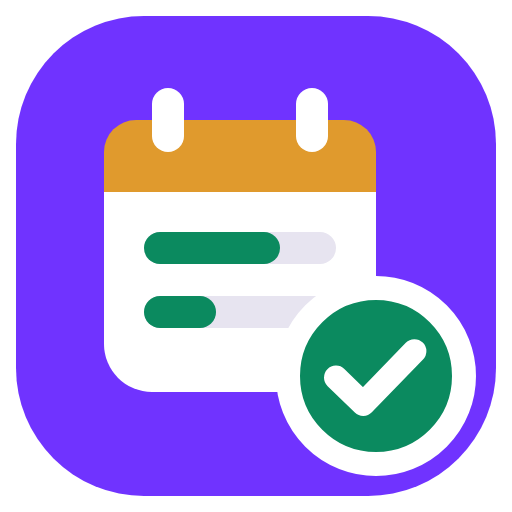
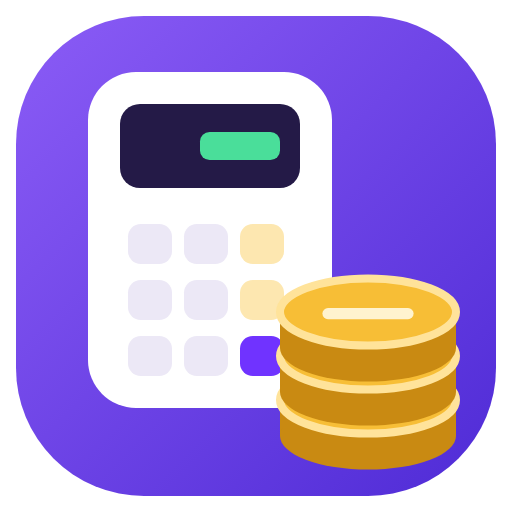
أيقونة جديدة: حاسبة آلية مع عملات نقدية
Claude-Session: https://claude.ai/code/session_01N8FUq5ZTCchDSKqghyh92N

diff --git a/src/components/AppIcon.tsx b/src/components/AppIcon.tsx
@@ -1,19 +1,8 @@
-/** Original brand mark: a calendar card with progress bars and a teal check badge. Mirrors public/favicon.svg */
+/** Brand mark: a calculator with a stack of gold coins. Mirrors public/favicon.svg */
 export function AppMark({ size = 40 }: { size?: number }) {
   return (
     <svg width={size} height={size} viewBox="0 0 64 64" aria-hidden="true">
-      <rect x="2" y="2" width="60" height="60" rx="16" fill="#7033FF" />
-      <rect x="13" y="15" width="34" height="34" rx="6" fill="#fff" />
-      <rect x="13" y="15" width="34" height="9" rx="4" fill="#E09A2D" />
-      <rect x="13" y="20" width="34" height="4" fill="#E09A2D" />
-      <rect x="19" y="11" width="4" height="8" rx="2" fill="#fff" />
-      <rect x="37" y="11" width="4" height="8" rx="2" fill="#fff" />
-      <rect x="18" y="29" width="24" height="4" rx="2" fill="#E7E4F0" />
-      <rect x="18" y="29" width="17" height="4" rx="2" fill="#0B8A5F" />
-      <rect x="18" y="37" width="24" height="4" rx="2" fill="#E7E4F0" />
-      <rect x="18" y="37" width="9" height="4" rx="2" fill="#0B8A5F" />
-      <circle cx="47" cy="47" r="11" fill="#0B8A5F" stroke="#fff" strokeWidth="3" />
-      <path d="M42 47.2l3.4 3.3 6.4-6.6" fill="none" stroke="#fff" strokeWidth="3" strokeLinecap="round" strokeLinejoin="round" />
+      <defs><linearGradient id="bg" x1="0" y1="0" x2="1" y2="1"><stop offset="0" stopColor="#8B5CF6"/><stop offset="1" stopColor="#4F2BD6"/></linearGradient></defs><rect x="2" y="2" width="60" height="60" rx="16" fill="url(#bg)"/><rect x="11" y="9" width="30.5" height="42" rx="6" fill="#fff"/><rect x="15" y="13" width="22.5" height="10.5" rx="2.5" fill="#241A47"/><rect x="25" y="16.5" width="10" height="3.5" rx="1.2" fill="#4ADE9A"/><rect x="16" y="28" width="5.5" height="5" rx="1.6" fill="#ECE8F6"/><rect x="23" y="28" width="5.5" height="5" rx="1.6" fill="#ECE8F6"/><rect x="30" y="28" width="5.5" height="5" rx="1.6" fill="#FDE7B0"/><rect x="16" y="35" width="5.5" height="5" rx="1.6" fill="#ECE8F6"/><rect x="23" y="35" width="5.5" height="5" rx="1.6" fill="#ECE8F6"/><rect x="30" y="35" width="5.5" height="5" rx="1.6" fill="#FDE7B0"/><rect x="16" y="42" width="5.5" height="5" rx="1.6" fill="#ECE8F6"/><rect x="23" y="42" width="5.5" height="5" rx="1.6" fill="#ECE8F6"/><rect x="30" y="42" width="5.5" height="5" rx="1.6" fill="#7033FF"/><g stroke="#4F2BD6" strokeWidth="0"/><rect x="35" y="50" width="22" height="4.5" fill="#C98A12"/><ellipse cx="46" cy="54.5" rx="11" ry="4.2" fill="#C98A12"/><ellipse cx="46" cy="50" rx="11" ry="4.2" fill="#F7BE36" stroke="#FFE39A" strokeWidth="1"/><rect x="35" y="44.5" width="22" height="4.5" fill="#C98A12"/><ellipse cx="46" cy="49.0" rx="11" ry="4.2" fill="#C98A12"/><ellipse cx="46" cy="44.5" rx="11" ry="4.2" fill="#F7BE36" stroke="#FFE39A" strokeWidth="1"/><rect x="35" y="39" width="22" height="4.5" fill="#C98A12"/><ellipse cx="46" cy="43.5" rx="11" ry="4.2" fill="#C98A12"/><ellipse cx="46" cy="39" rx="11" ry="4.2" fill="#F7BE36" stroke="#FFE39A" strokeWidth="1"/><path d="M41 39.2 h10" stroke="#FFF3CF" strokeWidth="1.4" strokeLinecap="round"/>
     </svg>
   );
 }
